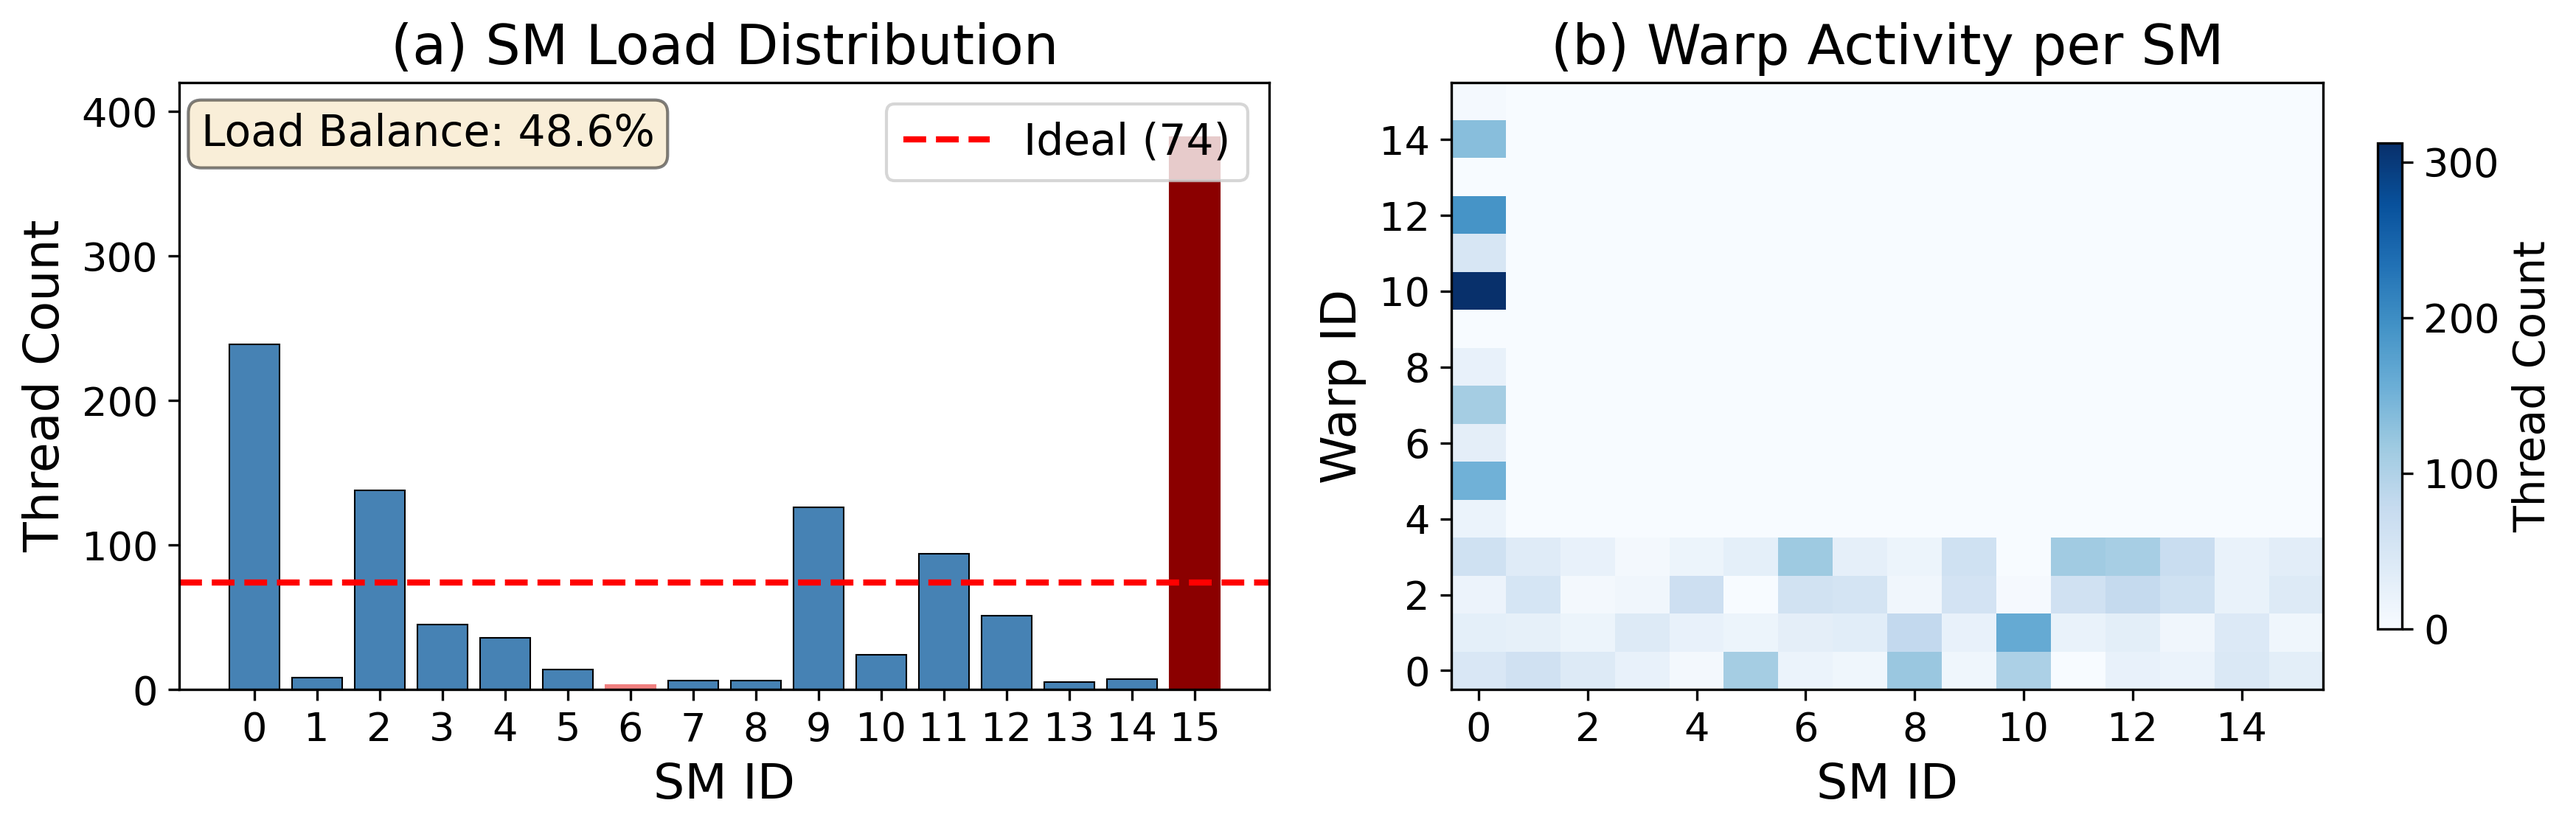
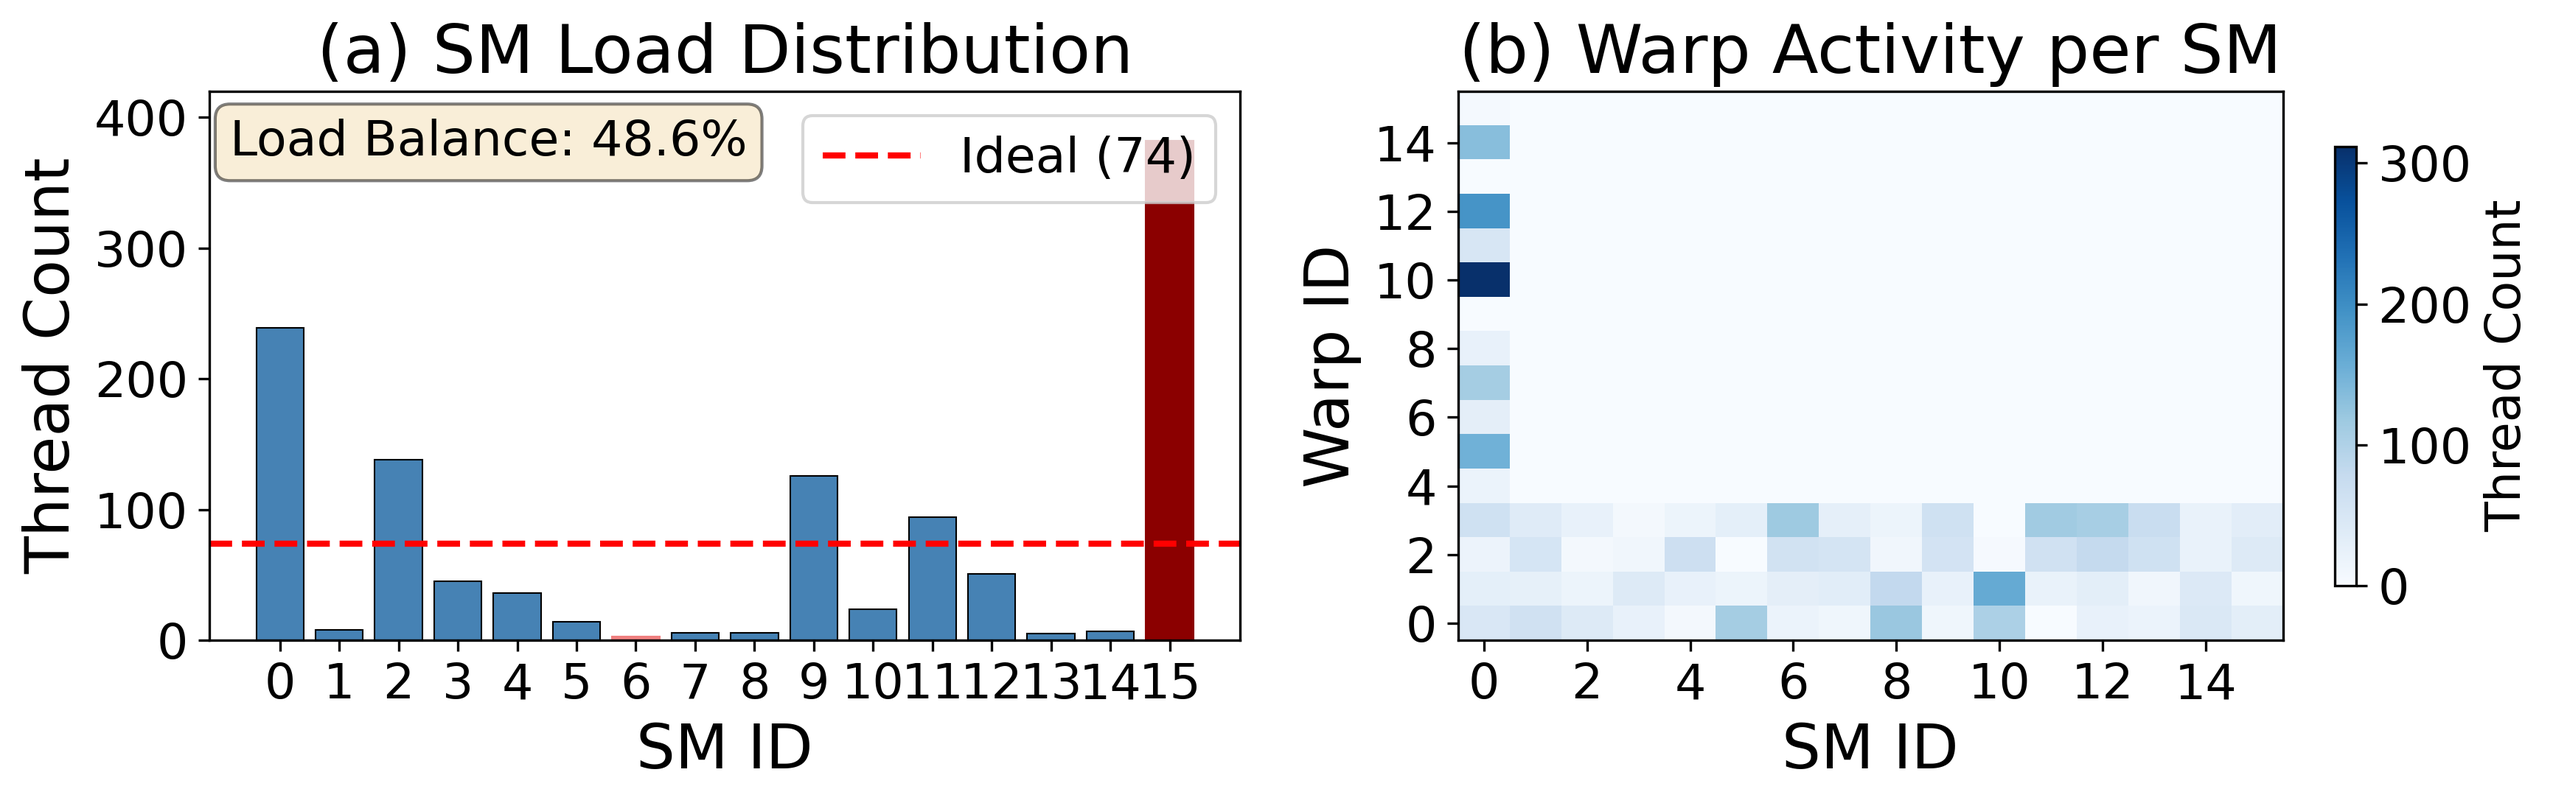
Update font sizes in thread scheduling plots and replace motivation images

Changed region(s): [[0.0, 0.0312, 0.998, 0.967], [0.3119, 0.5927, 0.3431, 0.6239]]

diff --git a/img/pattern/vector_add/plot_thread_scheduling.py b/img/pattern/vector_add/plot_thread_scheduling.py
@@ -4,12 +4,12 @@ import numpy as np
 
 # Set larger font sizes globally
 plt.rcParams.update({
-    'font.size': 14,
-    'axes.labelsize': 16,
-    'axes.titlesize': 18,
-    'xtick.labelsize': 13,
-    'ytick.labelsize': 13,
-    'legend.fontsize': 12,
+    'font.size': 18,
+    'axes.labelsize': 20,
+    'axes.titlesize': 22,
+    'xtick.labelsize': 16,
+    'ytick.labelsize': 16,
+    'legend.fontsize': 16,
 })
 
 # Updated data from the trace example
@@ -54,7 +54,7 @@ ax1.set_xlabel('SM ID')
 ax1.set_ylabel('Thread Count')
 ax1.set_title('(a) SM Load Distribution')
 ax1.set_xticks(sm_ids)
-ax1.legend(loc='upper right', fontsize=14)
+ax1.legend(loc='upper right', fontsize=16)
 ax1.set_ylim(0, 420)
 
 # Highlight max and min
@@ -65,7 +65,7 @@ bars[min_sm].set_color('lightcoral')
 
 # Add load balance score annotation
 ax1.text(0.02, 0.95, 'Load Balance: 48.6%', transform=ax1.transAxes,
-         fontsize=14, verticalalignment='top',
+         fontsize=16, verticalalignment='top',
          bbox=dict(boxstyle='round', facecolor='wheat', alpha=0.5))
 
 # (b) Warp Distribution Heatmap
@@ -87,7 +87,7 @@ ax2.set_yticks(range(0, num_warps, 2))
 
 # Add colorbar
 cbar = plt.colorbar(im, ax=ax2, shrink=0.8)
-cbar.set_label('Thread Count', fontsize=14)
+cbar.set_label('Thread Count', fontsize=16)
 
 plt.tight_layout()
 output_dir = os.path.dirname(os.path.abspath(__file__))
